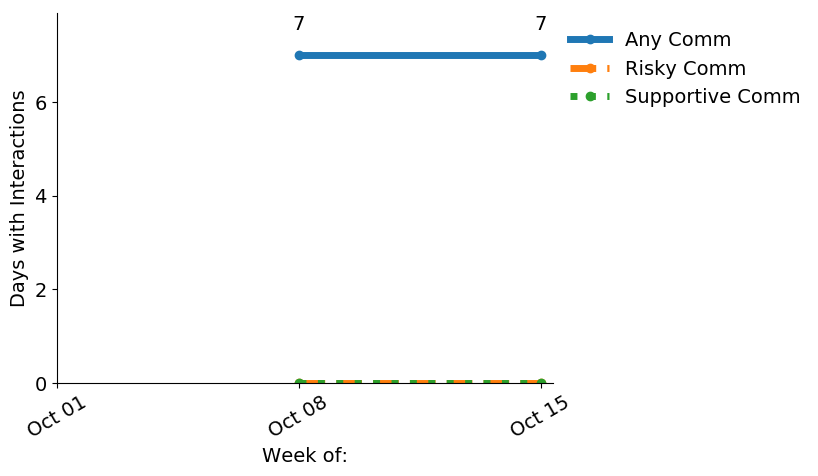
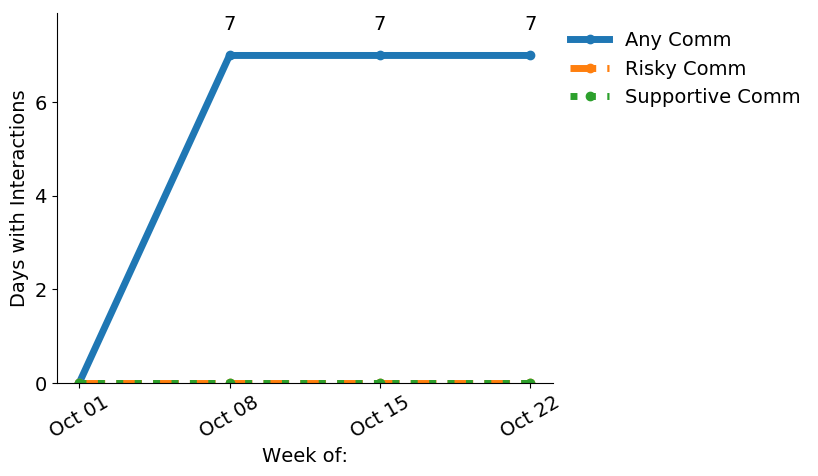
New Chart Creation

diff --git a/src/data/generate_report_data.py b/src/data/generate_report_data.py
@@ -2,6 +2,7 @@ import os
 import pandas as pd
 import datetime as dt
 import numpy as np
+import json
 
 
 # Future steps: input report templates and only generate the needed data
@@ -26,9 +27,9 @@ def comm_pie_chart(comm_df, comm_pie_chart_data, username, date):
 			comm_pie_chart_data.loc[username, e] = data[e]
 		# data.index = [username]
 		# # comm_pie_chart_data = comm_pie_chart_data.append(data, ignore_index=True)
-		return comm_pie_chart_data
+		return comm_pie_chart_data.fillna(0)
 	print("no pie chart data")
-	return comm_pie_chart_data
+	return comm_pie_chart_data.fillna(0)
 
 
 def comm_days_line_chart(comm_df, comm_days_line_chart_data, username):
@@ -39,7 +40,7 @@ def comm_days_line_chart(comm_df, comm_days_line_chart_data, username):
 	for date in date_indices:
 		if date in comm_df.index:
 			comm_days_line_chart_data.loc[(username, date), cols] = comm_df.loc[date,cols]
-	return comm_days_line_chart_data
+	return comm_days_line_chart_data.fillna(0)
 
 
 def comm_vol_line_chart(comm_df, comm_vol_line_chart_data, username):
@@ -51,7 +52,7 @@ def comm_vol_line_chart(comm_df, comm_vol_line_chart_data, username):
 	for date in date_indices:
 		if date in comm_df.index:
 			comm_vol_line_chart_data.loc[(username, date), cols] = comm_df.loc[date,cols]
-	return comm_vol_line_chart_data
+	return comm_vol_line_chart_data.fillna(0)
 
 
 def generate_report_variables(username, report_variables, comm_df, date_indices):
@@ -111,7 +112,7 @@ def generate_report_data(usernames, date_indices, PROJ_ROOT):
 	comm_days_line_chart_cols = ['total_comm_days', 'risky_comm_days', 'supportive_comm_days']
 	comm_days_line_chart_data = pd.DataFrame(np.nan, index=multi_index, columns=comm_days_line_chart_cols)
 	comm_vol_line_chart_cols = ['total_comm', 'risky_comm', 'neutral_comm', 'supportive_comm', 'unrated_comm']
-	comm_vol_line_chart_data = pd.DataFrame(np.nan, index=multi_index, columns=comm_vol_line_chart_cols)
+	comm_vol_bar_chart_data = pd.DataFrame(np.nan, index=multi_index, columns=comm_vol_line_chart_cols)
 	report_variables = {}
 
 	report_date = max(date_indices).date()
@@ -119,24 +120,19 @@ def generate_report_data(usernames, date_indices, PROJ_ROOT):
 	for username in usernames:
 		interim_data_file_path = os.path.join(interim_data_path, 'week_comm_log_df_' + username + '.pkl')
 		weekly_comm_df = pd.read_pickle(interim_data_file_path)
-		print(weekly_comm_df.columns)
 
 		comm_pie_chart_data = comm_pie_chart(weekly_comm_df, comm_pie_chart_data, username, report_date - dt.timedelta(7))
-		comm_pie_chart_data.to_pickle(os.path.join(report_data_path + 'comm_pie_chart_data.pkl'))
-
-
 		comm_days_line_chart_data = comm_days_line_chart(weekly_comm_df, comm_days_line_chart_data, username)
-		comm_days_line_chart_data.to_pickle(os.path.join(report_data_path + 'comm_days_line_chart_data.pkl'))
-
-
-		comm_vol_line_chart_data = comm_vol_line_chart(weekly_comm_df, comm_vol_line_chart_data, username)
-		comm_vol_line_chart_data.to_pickle(os.path.join(report_data_path + 'comm_vol_line_chart_data.pkl'))
-
-
+		comm_vol_bar_chart_data = comm_vol_line_chart(weekly_comm_df, comm_vol_bar_chart_data, username)
 		report_variables = generate_report_variables(username, report_variables, weekly_comm_df, date_indices)
-		# TODO: write report variables to file
 
-	print(comm_vol_line_chart_data.index)
-	print(comm_vol_line_chart_data)
-	print(report_variables)
-	return comm_pie_chart_data, comm_days_line_chart_data, comm_vol_line_chart_data, report_variables
+	comm_pie_chart_data.to_pickle(os.path.join(report_data_path, 'comm_pie_chart_data.pkl'))
+	comm_days_line_chart_data.to_pickle(os.path.join(report_data_path, 'comm_days_line_chart_data.pkl'))
+	comm_vol_bar_chart_data.to_pickle(os.path.join(report_data_path, 'comm_vol_line_chart_data.pkl'))
+	with open(os.path.join(report_data_path, 'report_variables.txt'), 'w') as file:
+		file.write(json.dumps(report_variables))
+
+	print(comm_vol_bar_chart_data.index)
+	print(comm_vol_bar_chart_data)
+	# print(report_variables)
+	return comm_pie_chart_data, comm_days_line_chart_data, comm_vol_bar_chart_data, report_variables

diff --git a/src/data/generate_report_charts.py b/src/data/generate_report_charts.py
@@ -4,6 +4,14 @@ import matplotlib.pyplot as plt
 import matplotlib.dates as mdates
 import numpy as np
 import pandas as pd
+import math
+
+
+def dates_to_strings(date_indices):
+	date_strings = []
+	for time in date_indices:
+		date_strings.append(time.strftime('%b %d'))
+	return date_strings
 
 
 def comm_days_line_chart(usernames, date_indices, comm_days_line_chart_data, report_chart_path):
@@ -34,15 +42,65 @@ def comm_days_line_chart(usernames, date_indices, comm_days_line_chart_data, rep
 		plt.yticks(np.arange(0, top, 2), fontsize=14)
 		plt.xlabel('Week of:', fontsize=14)
 		plt.ylabel('Days with Interactions', fontsize=14)
-
 		ax.legend(bbox_to_anchor=(1, 1), loc=2, frameon=False, fontsize=14)
 		ax.spines['right'].set_visible(False)
 		ax.spines['top'].set_visible(False)
 
-		#     here = os.path.dirname(__file__)
-		#     here = os.path.dirname(os.getcwd())
-		here = r'C:\Users\VinnyValant\Documents\Python Stuff\HeyCharlie Reports'
-		subdir = 'temp_materials'
 		filename = 'WklyCommDays-' + username + '.png'
+		filepath = os.path.join(report_chart_path, filename)
+		fig.savefig(filepath, bbox_inches="tight")
+
+
+def comm_vol_bar_chart(usernames, date_indices, comm_vol_bar_chart_data, report_chart_path):
+	for count, username in enumerate(usernames):
+		fig = plt.figure()
+		ax = fig.add_subplot(111)
+
+		chart_colors = {'risky': '#e65c00',
+						'neutral': '#b3b3ff',
+						'unrated': '#C0C0C0',
+						'supportive': '#009900'}
+		labels = ['Risky', 'Neutral', 'Supportive', 'Unrated']
+		cols = ['risky_comm', 'neutral_comm', 'supportive_comm', 'unrated_comm']
+		date_strings = dates_to_strings(date_indices)
+
+		colors = []
+		for k in labels:
+			colors.append(chart_colors[k.lower()])
+
+		data = comm_vol_bar_chart_data.xs(username)[min(date_indices):max(date_indices)]
+		rolling_total = pd.DataFrame(0, data[:-1].index, columns=['temp'])
+
+		for i, col in enumerate(data[cols]):
+			if i == 0:
+				ax.bar(date_strings, data[col], 0.7, color=colors[i], label=labels[i])
+				rolling_total = data[col]
+			else:
+				ax.bar(date_strings, data[col], 0.7, color=colors[i], label=labels[i], bottom=rolling_total)
+				rolling_total = rolling_total + data[col]
+				if i == len(cols) - 1:
+					for k, j in enumerate(rolling_total):
+						if j > 0:
+							ax.annotate(int(j), xy=(date_strings[k], j), fontsize=14, va='bottom', ha='center')
+
+		plt.xticks(date_strings, fontsize=14, rotation='30')
+		top = max(rolling_total.max() * 1.2, rolling_total.max() + 2.1, 5)
+		ax.set_ylim(bottom=0, top=top)
+		interval = 1
+		for j in [2, 5, 10, 15, 20, 25, 50, 100, 200, 250, 500, 1000]:
+			if math.ceil(top / 4) > j:
+				interval = j
+			else:
+				break
+		plt.yticks(np.arange(0, top, interval), fontsize=14)
+		plt.xlabel('Week of:', fontsize=14)
+		plt.ylabel('Number of Interactions', fontsize=14)
+		ax.spines['right'].set_visible(False)
+		ax.spines['top'].set_visible(False)
+
+		handles, labels = ax.get_legend_handles_labels()
+		ax.legend(handles[::-1], labels[::-1], loc=2, bbox_to_anchor=(1, 1), frameon=False, fontsize=14)
+
+		filename = 'WklyComm-' + username + '.png'
 		filepath = os.path.join(report_chart_path, filename)
 		fig.savefig(filepath, bbox_inches="tight")

diff --git a/src/data/generate_reports.py b/src/data/generate_reports.py
@@ -63,11 +63,12 @@ if __name__ == '__main__':
 	usernames = make_dataset.refresh_user_data(usernames, PROJ_ROOT, max(date_indices).date())
 	print(usernames)
 
-	[comm_pie_chart_data, comm_days_line_chart_data, comm_vol_line_chart_data, report_variables] = \
+	[comm_pie_chart_data, comm_days_line_chart_data, comm_vol_bar_chart_data, report_variables] = \
 		generate_report_data.generate_report_data(usernames, date_indices, PROJ_ROOT)
 
 	report_chart_path = os.path.join(PROJ_ROOT,
 									"reports",
 									"figures")
 	generate_report_charts.comm_days_line_chart(usernames, date_indices, comm_days_line_chart_data, report_chart_path)
+	generate_report_charts.comm_vol_bar_chart(usernames, date_indices[:-1], comm_vol_bar_chart_data, report_chart_path)
 	# generate_html(usernames, report_variables)
